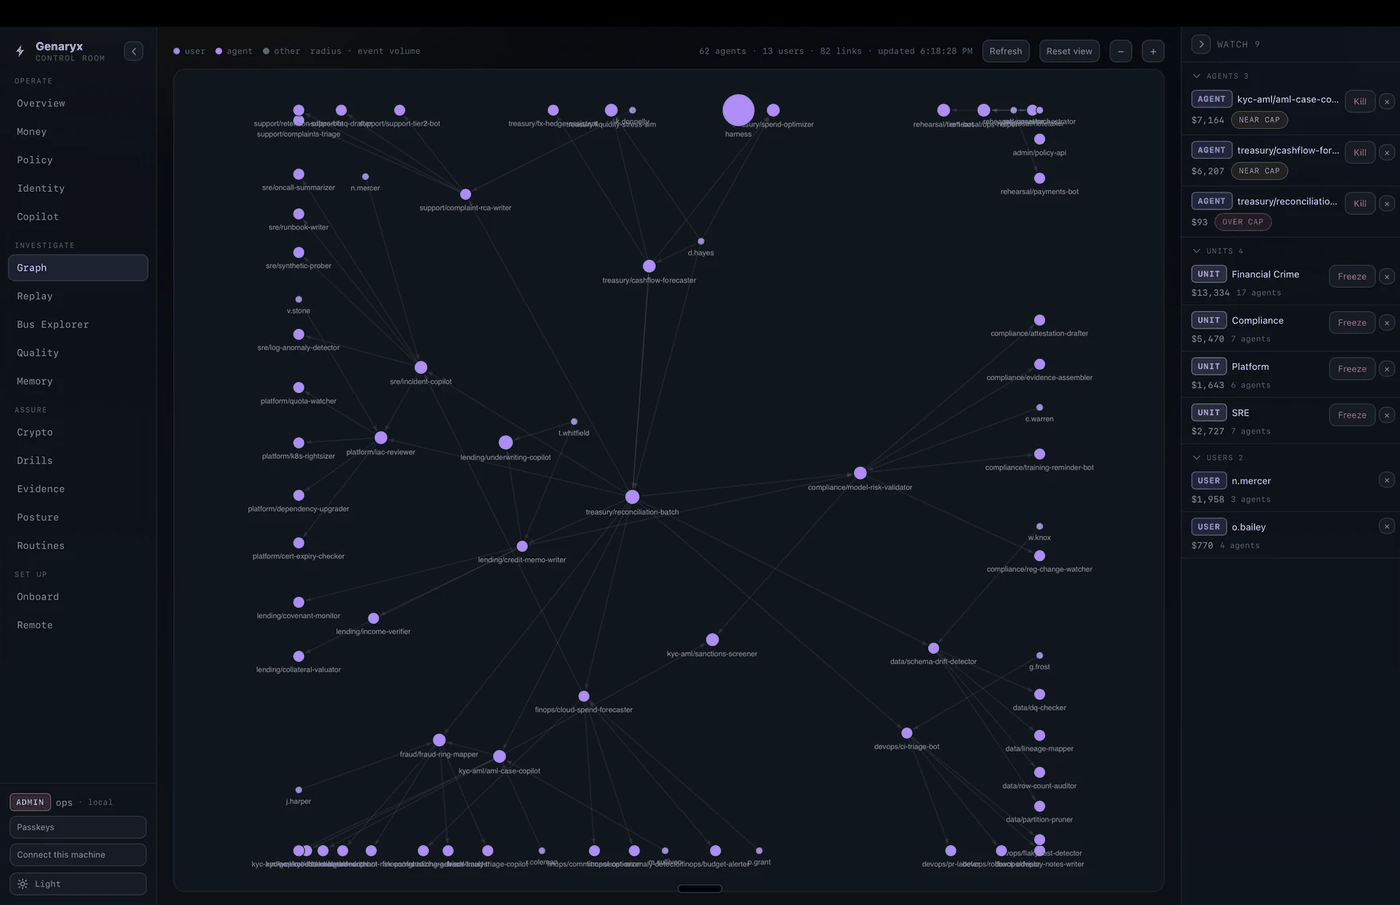
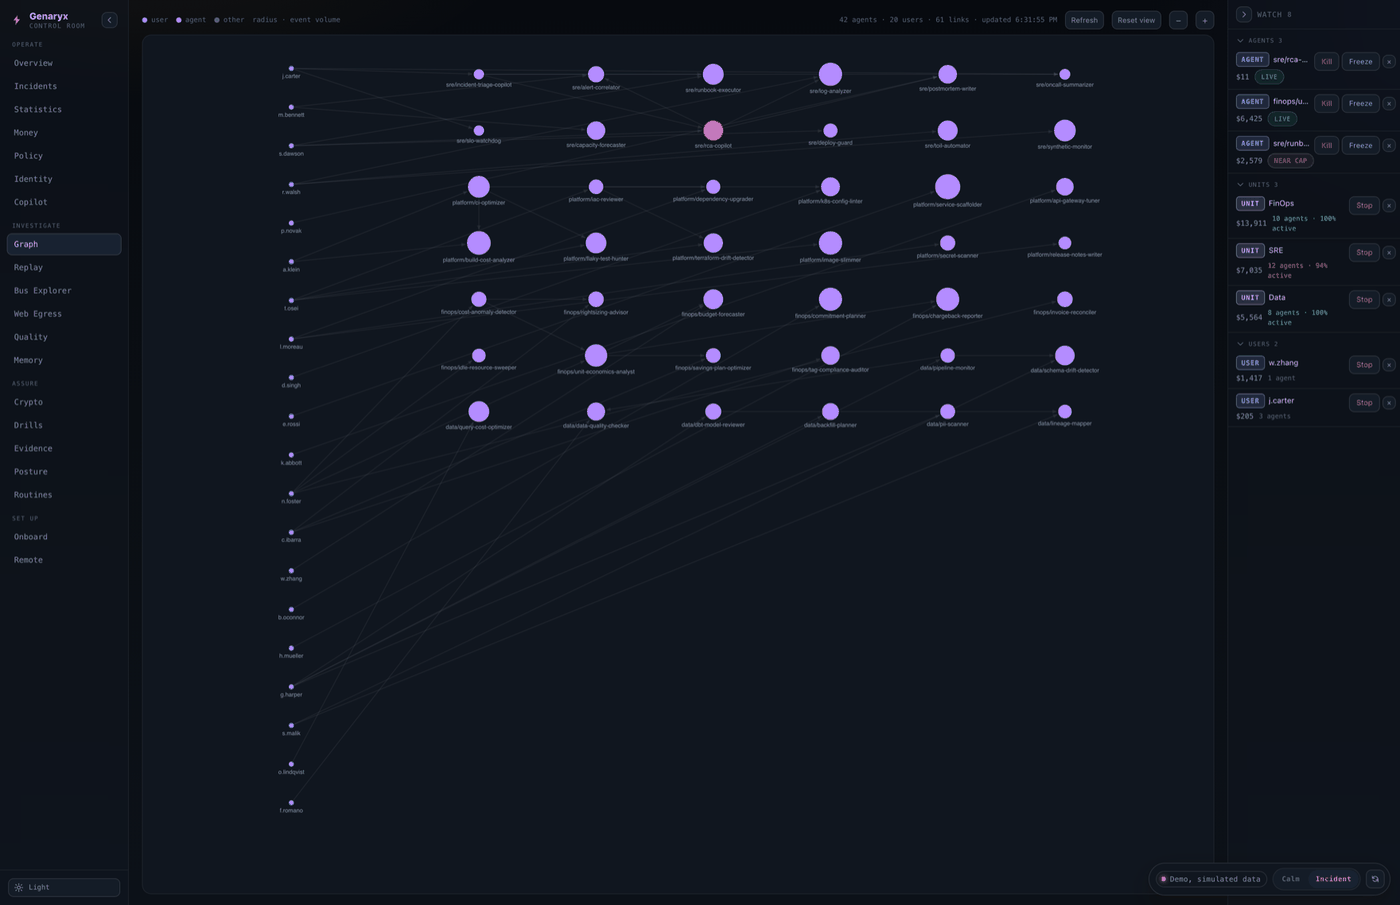
docs: README frames from the console as it is now
The four stills were the e01 run on a Hetzner box and the console has moved
since. They show a left rail without the incident stream or Statistics, and a
Money board that says budget where it now says cap: a reader comparing them to
the demo would find two different products.

Re-shot from the demo build at the same 1400x905 the old ones used, and the
line above them says what they are rather than implying the live run. The e01
campaign keeps its own section further down, where the evidence belongs.

Captions follow the frames: the graph is 42 agents, 20 users and 61 links here,
not e01's 62 and 13 across 82, and the count of tabs is twenty, read from
NAV_SECTIONS rather than remembered.

diff --git a/README.md b/README.md
@@ -135,24 +135,27 @@ Run the whole open stack locally with one command via [**stack-up**](https://git
 
 ## What it looks like
 
-Four of the nineteen tabs, on the frozen e01 campaign data described below.
+Four of the twenty tabs, from the demo build (`npm run build:demo`) on simulated
+data, which is what anybody can click at [it-rat.com/demo](https://it-rat.com/demo/).
+The frozen e01 campaign further down is the run against a live plane on a real
+box; these frames are not it, and say so here rather than in a footnote.
 
 <table>
 <tr>
 <td width="50%"><img src="assets/console-overview.png" alt="Genaryx Overview tab: fleet AI spend with governed savings, active runs, open incidents, spend by agent, and a live incident centre"></td>
-<td width="50%"><img src="assets/console-money.png" alt="Genaryx Money tab: every run with spend against budget, killed and over-cap states, replay and kill actions, and the governed-savings breakdown"></td>
+<td width="50%"><img src="assets/console-money.png" alt="Genaryx Money tab: every run with spend against its cap, killed and over-cap states, replay, cap and kill actions, and the governed-savings breakdown"></td>
 </tr>
 <tr>
 <td><sub><b>Overview</b> - the whole fleet in one screen: what it costs, what governance recovered, what is still open.</sub></td>
-<td><sub><b>Money</b> - per-run spend against budget, with the runs the breaker already killed.</sub></td>
+<td><sub><b>Money</b> - per-run spend against its cap, with Replay, Cap and Kill on the row.</sub></td>
 </tr>
 <tr>
 <td><img src="assets/console-policy.png" alt="Genaryx Policy tab: Wardryx decisions with allow, deny and hold outcomes and the approvals queue"></td>
-<td><img src="assets/console-graph.png" alt="Genaryx Graph tab: the identity graph built by Idryx, 62 agents and 13 users across 82 links, laid out by event volume"></td>
+<td><img src="assets/console-graph.png" alt="Genaryx Graph tab: the identity graph built by Idryx, 42 agents and 20 users across 61 links, laid out by event volume"></td>
 </tr>
 <tr>
 <td><sub><b>Policy</b> - the Wardryx decision stream and the approvals a hold is waiting on.</sub></td>
-<td><sub><b>Graph</b> - the Idryx identity graph: 62 agents, 13 users, 82 links, sized by event volume.</sub></td>
+<td><sub><b>Graph</b> - the Idryx identity graph: 42 agents, 20 users, 61 links, sized by event volume.</sub></td>
 </tr>
 </table>
 
